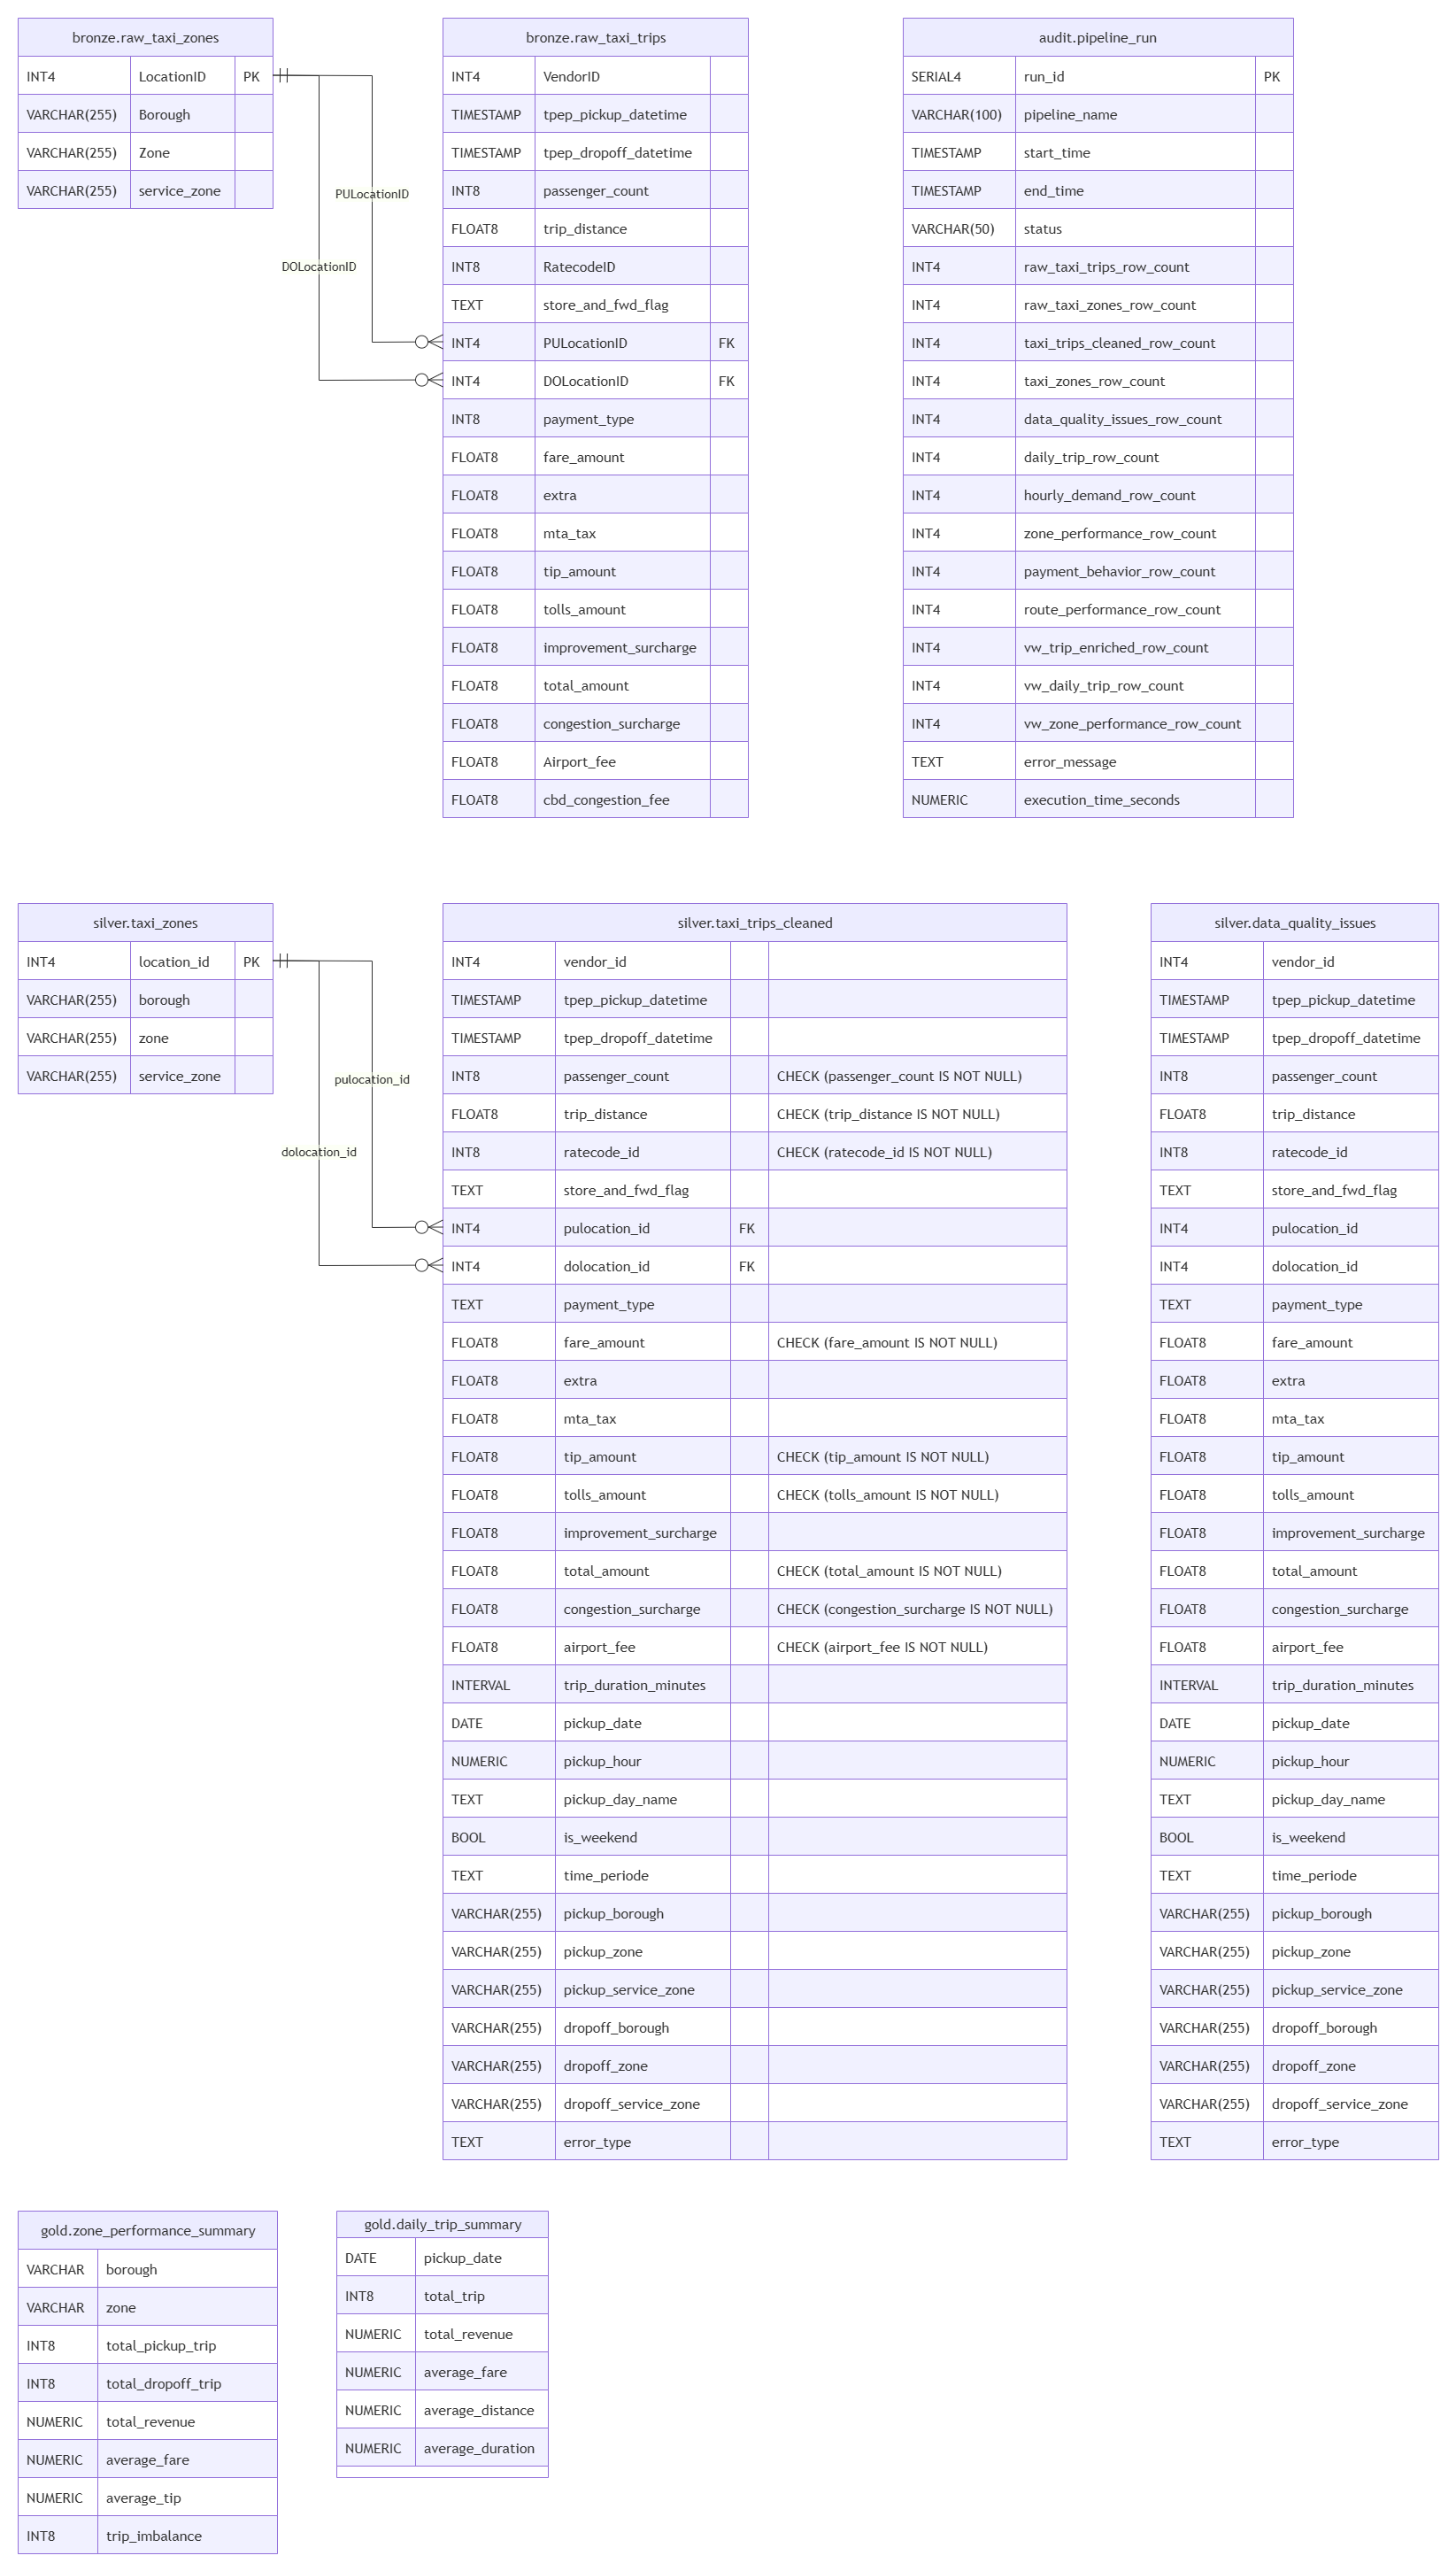
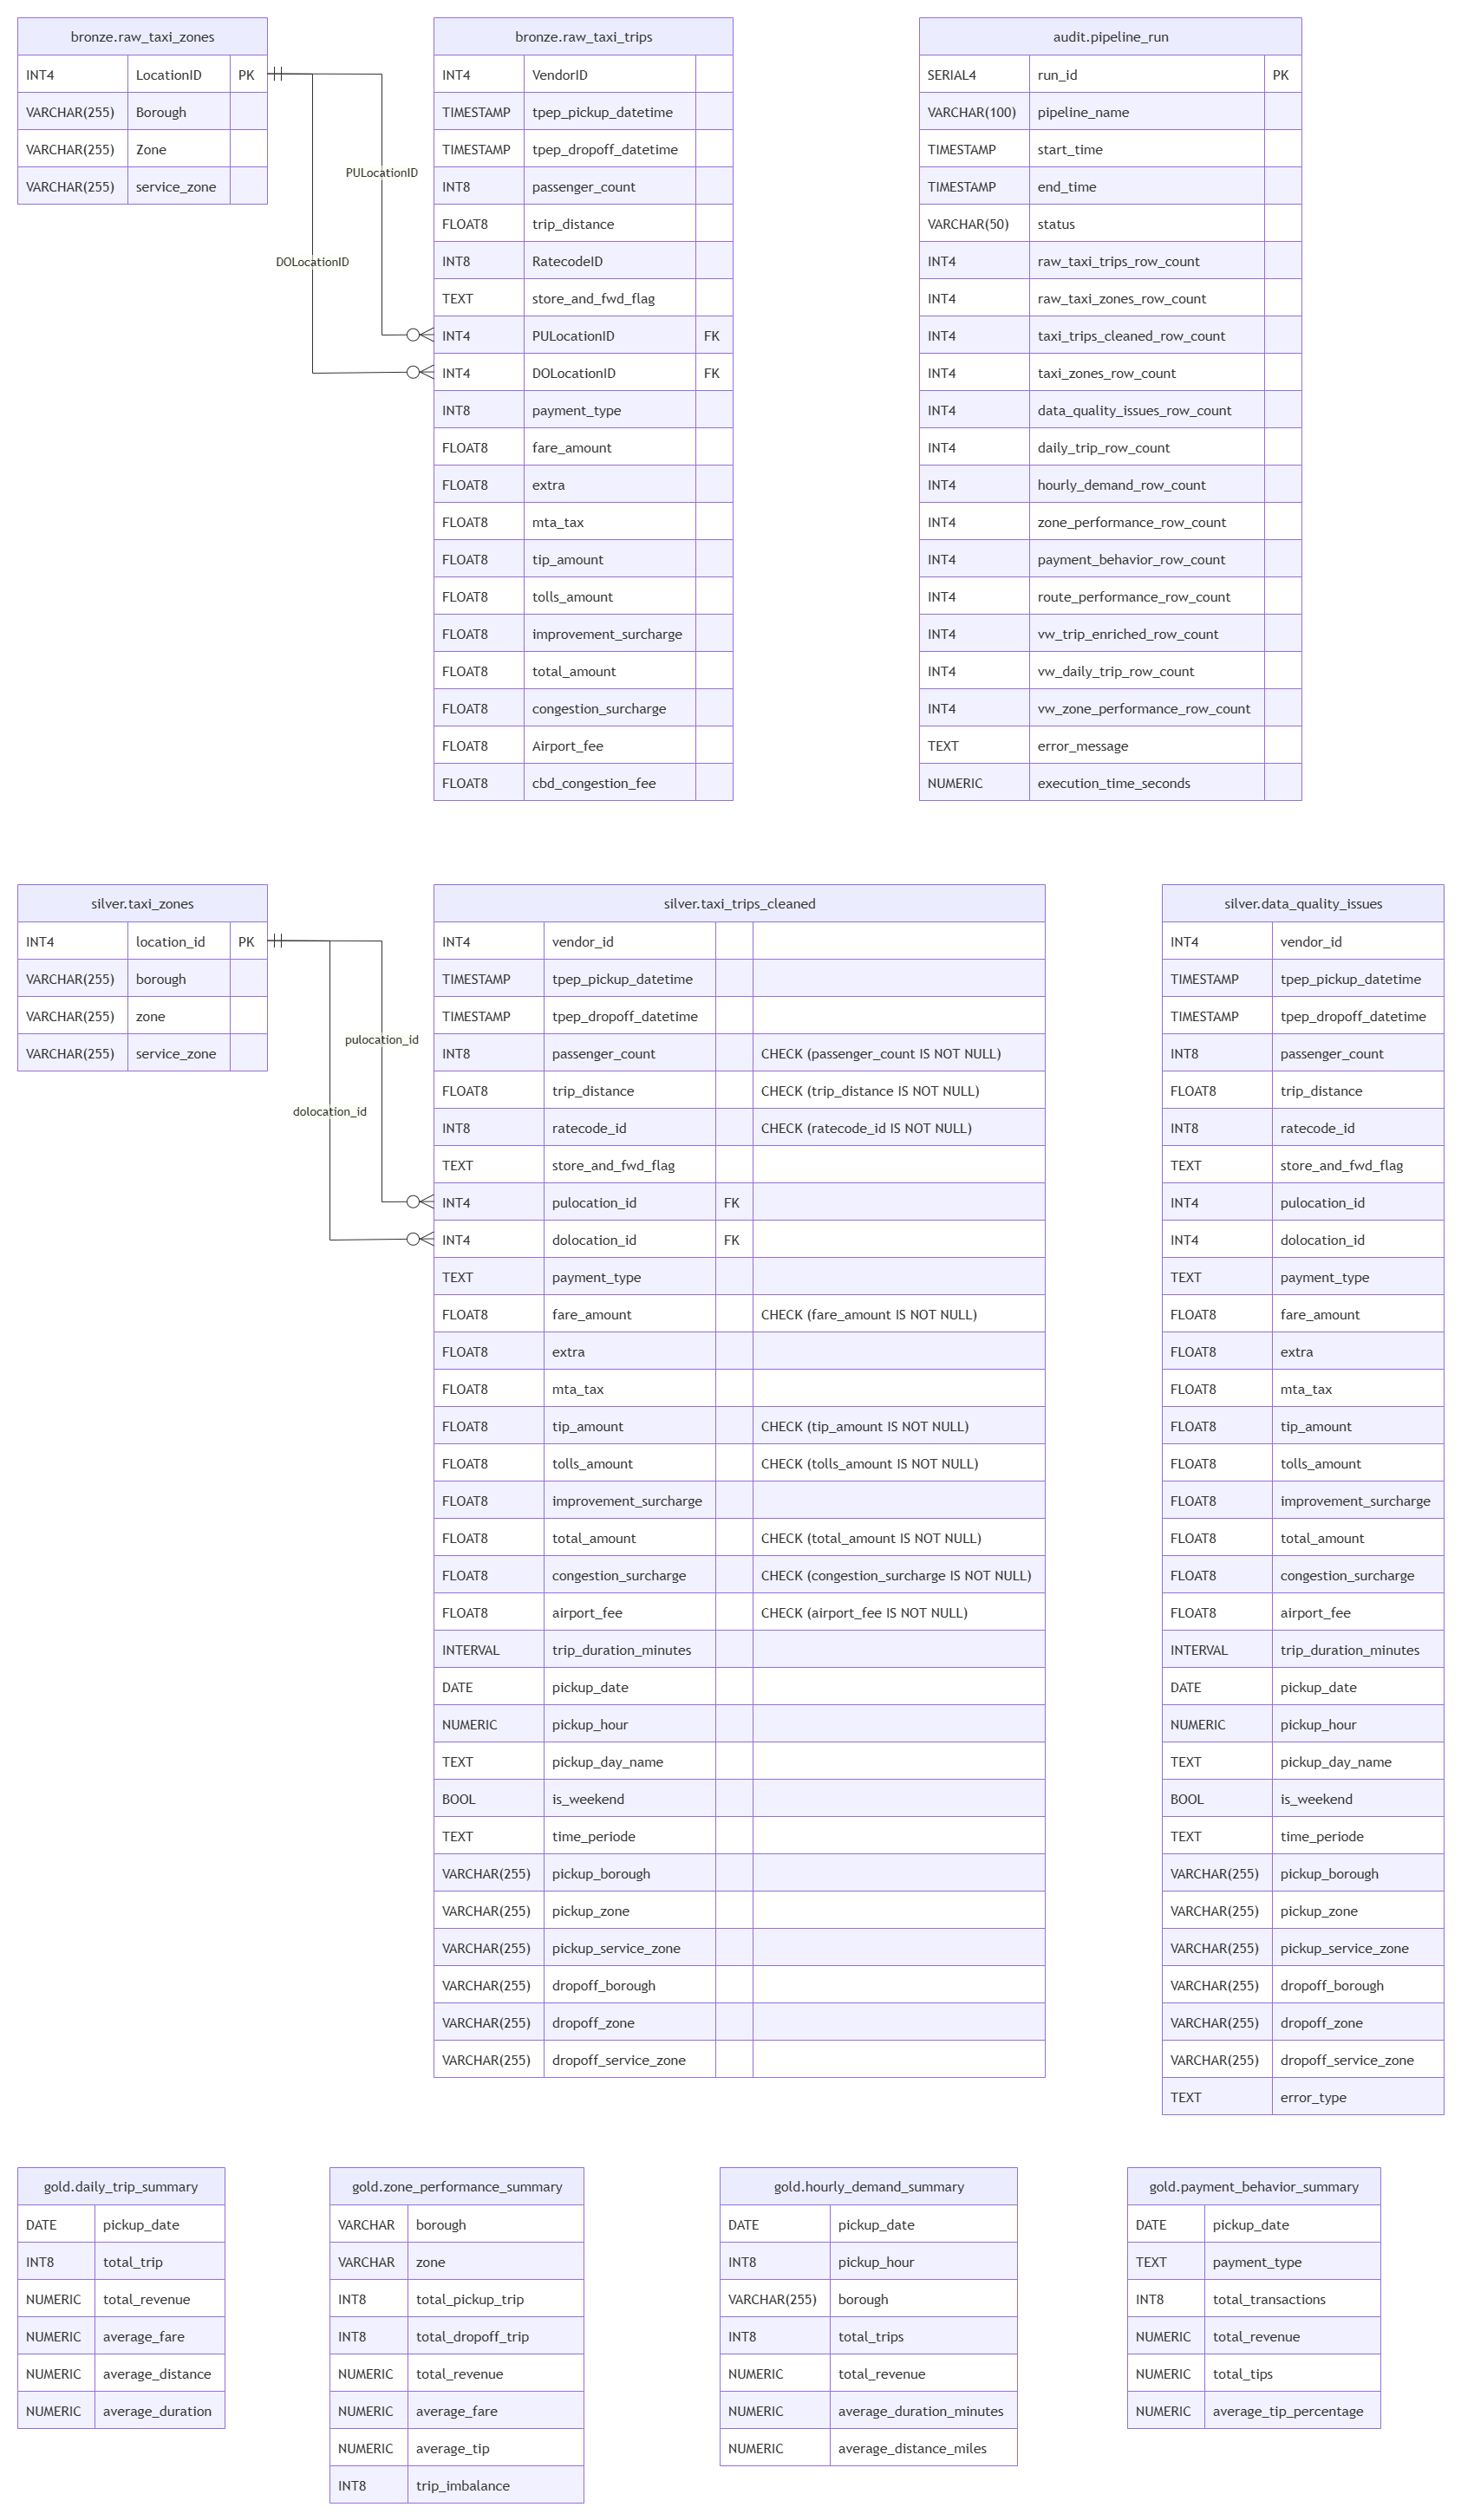
1.6 - Perubahan ERD, Penambahan Table Gold, File SQL Baru & Perubahan Insight Report

diff --git a/main.py b/main.py
@@ -203,6 +203,30 @@ if __name__ == "__main__":
                 log_message(f"Jumlah baris yang masuk ke Table Gold.Zone Performance Summary: {zone_performance_summary_count:,} baris .")
                 print("==================================================\n")
 
+                hourly_demand_summary = conn.execute(text("SELECT COUNT(*) FROM gold.hourly_demand_summary;"))
+                hourly_demand_summary_count = hourly_demand_summary.fetchone()[0]
+                
+                conn.execute(text("""
+                    UPDATE audit.pipeline_run SET hourly_demand_row_count = :count WHERE run_id = :run_id;
+                """), {"count": hourly_demand_summary_count, "run_id": run_id})
+                conn.commit()
+
+                print("\n==================================================")
+                log_message(f"Jumlah baris yang masuk ke Table Gold.Hourly Demand Summary: {hourly_demand_summary_count:,} baris .")
+                print("==================================================\n")
+
+                payment_behavior_summary = conn.execute(text("SELECT COUNT(*) FROM gold.payment_behavior_summary;"))
+                payment_behavior_summary_count = payment_behavior_summary.fetchone()[0]
+                
+                conn.execute(text("""
+                    UPDATE audit.pipeline_run SET payment_behavior_row_count = :count WHERE run_id = :run_id;
+                """), {"count": payment_behavior_summary_count, "run_id": run_id})
+                conn.commit()
+
+                print("\n==================================================")
+                log_message(f"Jumlah baris yang masuk ke Table Gold.Payment Behavior Summary: {payment_behavior_summary_count:,} baris .")
+                print("==================================================\n")
+                
         print("Load view ke db gold")
         schema_manager.execute_sql_file("db/init/05_views.sql")
 

diff --git a/docs/insight_report.md b/docs/insight_report.md
@@ -80,33 +80,29 @@ Query ini menyaring zona yang memiliki tingkat penjemputan (*pickup*) **di atas 
 * **Aksi:** Alokasikan armada yang lebih hemat energi atau pengemudi baru di area ini karena volume ordernya tinggi dan stabil.
 
 ### B. Ranking Zona Berdasarkan Kontribusi Pendapatan (Query 18)
-Menggunakan fungsi *Windowing* (`RANK() OVER`), query ini mengurutkan wilayah dari kontributor pendapatan terbesar hingga terkecil.
+Menggunakan fungsi *Windowing* (`DENSE_RANK() OVER (ORDER BY SUM(total_amount) DESC)`), query ini mengurutkan wilayah dari kontributor pendapatan terbesar hingga terkecil.
 
-| Rank | Borough (Wilayah) | Pickup Zone (Zona) | Total Revenue |
-| :---: | :--- | :--- | :--- |
-| **1** | `Queens` | `JFK Airport` | $ 11063083.51 |
-| **2** | `Queens` | `LaGuardia Airport` | $ 5654486.54 |
-| **3** | `Manhattan` | `Midtown Center` | $ 3860074.9 |
-| **4** | `Manhattan` | `Upper East Side North` | $ 3439390.36 |
-| **5** | `Manhattan` | `Upper East Side South` | $ 3430062.18 |
-| **6** | `Manhattan` | `Times Sq/Theatre District` | $ 3065312.64 |
-| **7** | `Manhattan` | `Penn Station/Madison Sq West` | $ 2788087.26 |
-| **8** | `Manhattan` | `Midtown East` | $ 2756837.56 |
-| **9** | `Manhattan` | `Lincoln Square East` | $ 2537406.59 |
-| **10** | `Manhattan` | `East Village` | $ 2520088.46 |
-| **...** | `...` | `...` | `...` |
-| **251** | `Queens` | `Breezy Point/Fort Tilden/Riis Beach` | $ 683.09 |
-| **252** | `Staten Island` | `Port Richmond` | $ 594.95 |
-| **253** | `Brooklyn` | `Green-Wood Cemetery` | $ 491.59 |
-| **254** | `Staten Island` | `Eltingville/Annadale/Prince's Bay` | $ 435.8 |
-| **255** | `Bronx` | `Rikers Island` | $ 251.39 |
-| **256** | `Staten Island` | `Arden Heights` | $ 203.5 |
-| **257** | `Queens` | `Jamaica Bay` | $ 193.81 |
-| **258** | `Staten Island` | `Rossville/Woodrow` | $ 162.19 |
-| **259** | `Staten Island` | `Freshkills Park` | $ 124 |
-| **260** | `Manhattan` | `Governor's Island/Ellis Island/Liberty Island` | $ 120.84 |
-| **261** | `Staten Island` | `Charleston/Tottenville` | $ 86.65 |
+| Rank | Zone ID | Borough | Zone Name | Total Trips | Total Revenue |
+| :---: | :--- | :---: | :--- | :---: | :--- |
+| **1** | **132** | `Queens` | `JFK Airport` | 152589 | $ 11063083.51 |
+| **2** | **138** | `Queens` | `LaGuardia Airport` | 85190 | $ 5654486.54 |
+| **3** | **161** | `Manhattan` | `Midtown Center` | 146641 | $ 3860074.9 |
+| **4** | **236** | `Manhattan` | `Upper East Side North` | 153640 | $ 3439390.36 |
+| **5** | **237** | `Manhattan` | `Upper East Side South` | 160343 | $ 3430062.18 |
+| **...** | **...** | `...` | `...` | `...` | [...] | [$ ...] |
 ---
+
+### C. Ranking Zona Berdasarkan Wilayah Lokal / Borough (Query 19)
+Melalui fungsi Windowing `DENSE_RANK() OVER (PARTITION BY borough ORDER BY total_revenue DESC)`, kita memecah kompetisi pendapatan ke tingkat regional masing-masing wilayah. Ini membantu kita melihat zona mana yang menjadi "Raja" di wilayahnya sendiri.
+
+| Rank in Borough | Borough | Zone ID | Zone Name | Total Trips | Total Revenue |
+| :---: | :--- | :---: | :--- | :---: | :--- |
+| **1** | `Bronx` | **168** | `Mott Haven/Port Morris` | 2837 | $ 90314.93 |
+| **2** | `Bronx` | **51** | `Co-Op City` | 1493 | $ 64485.65 |
+| **3** | `Bronx` | **69** | `East Concourse/Concourse Village` | 1837 | $ 60554.54 |
+| **4** | `Bronx` | **254** | `Williamsbridge/Olinville` | 1413 | $ 57080.55 |
+| **5** | `Bronx` | **213** | `Soundview/Castle Hill` | 1566 | $ 55559.69 |
+| **...** | **...** | `...` | `...` | `...` | [...] | [$ ...] |
 
 ## 5. Analisis Tren Harian & Deviasi Revenue
 Melalui **Query 15**, kita dapat melihat performa harian dibandingkan dengan rata-rata harian sepanjang masa (*Global Daily Average*).